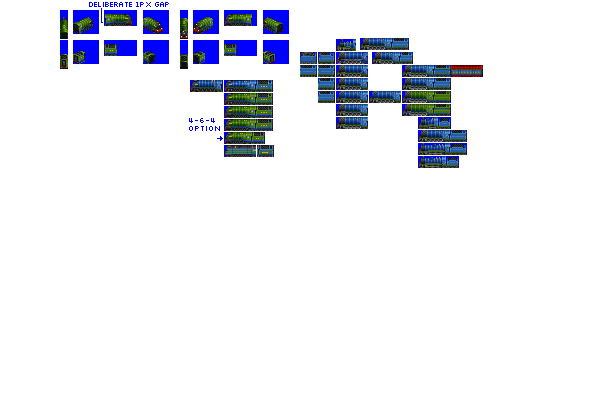
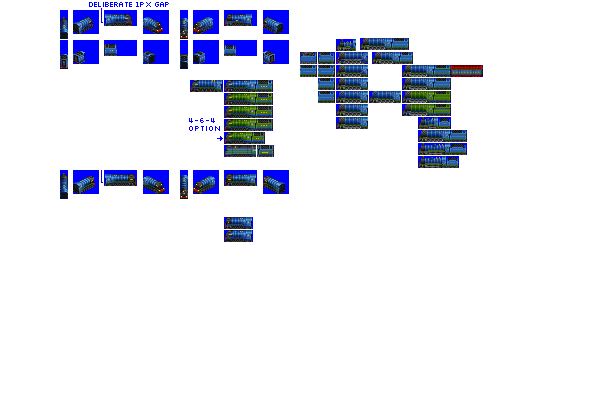
Change: WIP on Arrow, Bulleid, etc, including adjusting Strongbow power as the anomoly no longer makes sense (1850 hp is now standard, not one variant)

diff --git a/src/vehicles/arrow.py b/src/vehicles/arrow.py
@@ -9,7 +9,7 @@ def main(roster_id):
         name="2-6-2 Arrow",
         role="heavy_express",
         role_child_branch_num=-2,  # -ve because Joker
-        power=1850,  # slightly less than Strongbow (and lighter engine)
+        power=1850,
         tractive_effort_coefficient=0.18,
         gen=3,
         intro_date_offset=4,  # introduce later than gen epoch by design
@@ -23,7 +23,7 @@ def main(roster_id):
 
     consist.add_unit(
         type=SteamEngineUnit,
-        weight=85,
+        weight=94,
         vehicle_length=7,
         effect_offsets=[(-3, 0), (-2, 0)],  # double the smoke eh?
         spriterow_num=0,

diff --git a/src/vehicles/strongbow.py b/src/vehicles/strongbow.py
@@ -9,7 +9,7 @@ def main(roster_id):
         name="4-6-0 Strongbow",
         role="heavy_express",
         role_child_branch_num=1,
-        power=1900,  # not an exact linear progression in this tree
+        power=1850,  # not an exact linear progression in this tree
         tractive_effort_coefficient=0.18,
         gen=3,
         fixed_run_cost_points=140,  # give a bonus so this can be a genuine mixed-traffic engine

diff --git a/src/vehicles/mainstay.py b/src/vehicles/mainstay.py
@@ -9,7 +9,7 @@ def main(roster_id):
         name="2-8-0 Mainstay",
         role="heavy_freight",
         role_child_branch_num=1,
-        power=1850,  # slightly less than the Strongbow eh
+        power=1850,
         speed=60,
         tractive_effort_coefficient=0.23,
         gen=3,
